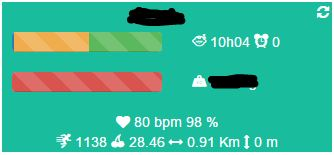
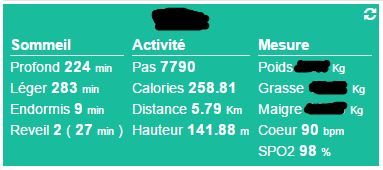
Improve widget

diff --git a/core/template/dashboard/withings.html b/core/template/dashboard/withings.html
@@ -5,117 +5,66 @@
 
     <span class="cmd cmd-widget" data-cmd_id="#refresh_id#" style="display:none;"></span>
 
-    <div class="row sleep">
-        <div class="col-sm-6" style="margin-left: 10px;" >
-            <div class="progress">
-                <div class="progress-bar progress-bar-striped durationtosleep #durationtosleep_history#" data-cmd_id="#durationtosleep_id#"></div>
-                <div class="progress-bar progress-bar-warning progress-bar-striped lightsleepduration #lightsleepduration_history#" data-cmd_id="#lightsleepduration_id#"></div>
-                <div class="progress-bar progress-bar-success progress-bar-striped deepsleepduration #deepsleepduration_history#" data-cmd_id="#deepsleepduration_id#"></div>
-            </div>
-        </div>
-        <div class="col-sm-5">
-            <i class="icon personne-sleeping4"></i> <span class="totalSleep #totalSleep_history#" data-cmd_id="#totalSleep_id#" title="Temps total de sommeil"></span> 
-            <span class="#wakeupcount_history#" data-cmd_id="#wakeupcount_id#" title="Nombre de reveils (#wakeupcount_collect#)"><i class="icon divers-circular114"></i> #wakeupcount#</span>
-        </div>
-    </div>
+    <div class="row" style="margin-left : 2px;margin-right : 2px;">
+       <div class="col-sm-4" style="padding-right : 5px;padding-left : 5px;">
+           <legend style="color:white;margin-bottom : 0px;font-size : 15px;font-weight: bold;">Sommeil</legend>
+           <span class="#deepsleepduration_history#" data-cmd_id="#deepsleepduration_id#">Profond <strong class="tooltips" title="#deepsleepduration_collect#" style="font-size:1.1em;">#deepsleepduration#</strong> <span style="font-size:0.8em;">min</span><br/></span>
+           <span class="#lightsleepduration_history#" data-cmd_id="#lightsleepduration_id#">Léger <strong class="tooltips" title="#lightsleepduration_collect#" style="font-size:1.1em;">#lightsleepduration#</strong> <span style="font-size:0.8em;">min</span><br/></span>
+           <span class="#durationtosleep_history#" data-cmd_id="#durationtosleep_id#">Endormis <strong class="tooltips" title="#durationtosleep_collect#" style="font-size:1.1em;">#durationtosleep#</strong> <span style="font-size:0.8em;">min</span><br/></span>
+           <span class="#wakeupcount_history#" data-cmd_id="#wakeupcount_id#">Reveil <strong class="tooltips" title="#wakeupcount_collect#" style="font-size:1.1em;">#wakeupcount#</strong> ( <strong class="tooltips" title="#wakeupduration_collect#" style="font-size:1.1em;">#wakeupduration#</strong> <span style="font-size:0.8em;">min</span> )</span>
+       </div>
+       <div class="col-sm-4" style="padding-right : 3px;padding-left : 3px;">
+           <legend style="color:white;margin-bottom : 0px;font-size : 15px;font-weight: bold;">Activité</legend>
+           <span class="step #step_history#" data-cmd_id="#step_id#">Pas <strong class="tooltips" title="#step_collect#" style="font-size:1.1em;">#step#</strong></span><br/>
+           <span class="caloriesOut #calories_history#" data-cmd_id="#calories_id#">Calories <strong class="tooltips" title="#calories_collect#" style="font-size:1.1em;">#calories#</strong><br/></span>
+           <span class="distance #distance_history#" data-cmd_id="#distance_id#">Distance <strong class="tooltips" title="#distance_collect#" style="font-size:1.1em;">#distance#</strong> <span style="font-size:0.8em;">Km</span><br/></span>
+           <span class="elevation #elevation_history#" data-cmd_id="#elevation_id#">Hauteur <strong class="tooltips" title="#elevation_collect#" style="font-size:1.1em;">#elevation#</strong> <span style="font-size:0.8em;">m</span></span>
+       </div>
+       <div class="col-sm-4" style="padding-right : 5px;padding-left : 5px;">
+           <legend style="color:white;margin-bottom : 0px;font-size : 15px;font-weight: bold;">Mesure</legend>
+           <span class="measuregrps1 #measuregrps1_history#" data-cmd_id="#measuregrps1_id#">Poids <strong class="tooltips" title="#measuregrps1_collect#" style="font-size:1.1em;">#measuregrps1#</strong> <span style="font-size:0.8em;">Kg</span><br/></span>
+           <span class="measuregrps8 #measuregrps8_history#" data-cmd_id="#measuregrps8_id#">Grasse <strong class="tooltips" title="#measuregrps8_collect#" style="font-size:1.1em;">#measuregrps8#</strong> <span style="font-size:0.8em;">Kg</span><br/></span>
+           <span class="measuregrps5 #measuregrps1_history#" data-cmd_id="#measuregrps5_id#">Maigre <strong class="tooltips" title="#measuregrps5_collect#" style="font-size:1.1em;">#measuregrps5#</strong> <span style="font-size:0.8em;">Kg</span><br/></span>
+           <span class="measuregrps11 #measuregrps11_history#" data-cmd_id="#measuregrps11_id#">Coeur <strong class="tooltips" title="#measuregrps11_collect#" style="font-size:1.1em;">#measuregrps11#</strong> <span style="font-size:0.8em;">bpm</span><br/></span>
+           <span class="measuregrps54 #measuregrps54_history#" data-cmd_id="#measuregrps54_id#">SPO2 <strong class="tooltips" title="#measuregrps54_collect#" style="font-size:1.1em;">#measuregrps54#</strong> <span style="font-size:0.8em;">%</span></span>
+       </div>
+   </div>
 
-    <div class="row body">
-        <div class="col-sm-6" style="margin-left: 10px;" >
-            <div class="progress">
-                <div class="progress-bar progress-bar-danger progress-bar-striped measuregrps8 #measuregrps8_history#" data-cmd_id="#measuregrps8_id#" title="Masse grasse : #measuregrps8# kg (#measuregrps8_collect#)"></div>
-                <div class="progress-bar progress-bar-success progress-bar-striped measuregrps5 #measuregrps5_history#" data-cmd_id="#measuregrps5_id#" title='Masse maigre : #measuregrps5# kg (#measuregrps5_collect#)'></div>
-                <div class="progress-bar progress-bar-success progress-bar-striped weightOther #weightOther_history#" data-cmd_id="#weightOther_id#" title='Autre : 0 kg'></div>
-            </div>
-        </div>
-        <div class="col-sm-5">
-            <span class="#measuregrps1_history#" data-cmd_id="#measuregrps1_id#" title="Poids (#measuregrps1_collect#)"><i class="icon divers-weight11"></i> #measuregrps1# kg</span>
-        </div>
-    </div>
-
-    <center>
-        <span class="heart #measuregrps11_history#" data-cmd_id="#measuregrps11_id#"><span title="Rythme cardiaque (#measuregrps11_collect#)"><i class="fa fa-heart"></i> #measuregrps11# bpm</span>
-        <span class="measuregrps54 #measuregrps54_history#" data-cmd_id="#measuregrps11_id#" title="SPO2 (#measuregrps54_collect#)">  #measuregrps54# %</span></span><br/>
-        <span class="step #step_history#" data-cmd_id="#step_id#" title="Nombre de pas (#step_collect#)"><i class="icon loisir-runner5"></i> #step#</span>
-        <span class="calories #calories_history#" data-cmd_id="#calories_id#" title="Calories brulées (#calories_collect#)"><i class="icon nourriture-cherries"></i> #calories#</span>
-        <span class="distance #distance_history#" data-cmd_id="#distance_id#" title="Distance parcourue (#distance_collect#)"><i class="fa fa-arrows-h"></i> #distance# Km</span>
-        <span class="elevation #elevation_history#" data-cmd_id="#elevation_id#" title="Elévation (#elevation_collect#)"><i class="fa fa-arrows-v"></i> #elevation# m</span>
-    </center>
-
-    <script>
-        $('.eqLogic[data-eqLogic_id=#id#] .refresh').on('click', function () {
-            jeedom.cmd.execute({id: '#refresh_id#'});
-        });
-
-
-        if (isNaN(parseInt('#durationtosleep#'))) {
-            $('.eqLogic[data-eqLogic_id=#id#] .sleep').remove();
-        } else {
-            var totalSleep = parseInt('#durationtosleep#') + parseInt('#deepsleepduration#') + parseInt('#lightsleepduration#');
-            var minute = (totalSleep % 60);
-            minute = minute.toString()
-            if (minute.length == 1) {
-                minute = '0' + minute;
-            }
-            $('.eqLogic[data-eqLogic_id=#id#] .totalSleep').append(parseInt(totalSleep / 60) + 'h' + minute);
-
-            var minute = (parseInt('#durationtosleep#') % 60);
-            minute = minute.toString()
-            if (minute.length == 1) {
-                minute = '0' + minute;
-            }
-            $('.eqLogic[data-eqLogic_id=#id#] .durationtosleep').attr('title', 'Temps pour s\'endormir : ' + parseInt(parseInt('#durationtosleep#') / 60) + 'h' + minute + ' (#durationtosleep_collect#)');
-            $('.eqLogic[data-eqLogic_id=#id#] .durationtosleep').css('width', (parseInt('#durationtosleep#') / totalSleep * 100) + '%');
-
-            var minute = (parseInt('#deepsleepduration#') % 60);
-            minute = minute.toString()
-            if (minute.length == 1) {
-                minute = '0' + minute;
-            }
-            $('.eqLogic[data-eqLogic_id=#id#] .deepsleepduration').attr('title', 'Durée sommeil profond : ' + parseInt(parseInt('#deepsleepduration#') / 60) + 'h' + minute + ' (#deepsleepduration_collect#)');
-            $('.eqLogic[data-eqLogic_id=#id#] .deepsleepduration').css('width', (parseInt('#deepsleepduration#') / totalSleep * 100) + '%');
-
-            var minute = (parseInt('#lightsleepduration#') % 60);
-            minute = minute.toString()
-            if (minute.length == 1) {
-                minute = '0' + minute;
-            }
-            $('.eqLogic[data-eqLogic_id=#id#] .lightsleepduration').attr('title', 'Durée sommeil léger : ' + parseInt(parseInt('#lightsleepduration#') / 60) + 'h' + minute + ' (#lightsleepduration_collect#)');
-
-            $('.eqLogic[data-eqLogic_id=#id#] .lightsleepduration').css('width', (parseInt('#lightsleepduration#') / totalSleep * 100) + '%');
-        }
-        if (isNaN(parseInt('#measuregrps1#'))) {
-            $('.eqLogic[data-eqLogic_id=#id#] .body').remove();
-        } else {
-            $('.eqLogic[data-eqLogic_id=#id#] .measuregrps8').css('width', (parseInt('#measuregrps8#') / parseInt('#measuregrps1#') * 100) + '%');
-            $('.eqLogic[data-eqLogic_id=#id#] .measuregrps5').css('width', (parseInt('#measuregrps5#') / parseInt('#measuregrps1#') * 100) + '%');
-            var weightOther = parseInt('#measuregrps1#') - (parseInt('#measuregrps5#') + parseInt('#measuregrps8#'));
-            if (weightOther > 0) {
-                $('.eqLogic[data-eqLogic_id=#id#] .weightOther').attr('title', 'Autre : ' + weightOther + ' kg');
-                $('.eqLogic[data-eqLogic_id=#id#] .weightOther').css('width', (weightOther / parseInt('#measuregrps1#') * 100) + '%');
-            }
-        }
-        if (isNaN(parseInt('#measuregrps14#'))) {
-            $('.eqLogic[data-eqLogic_id=#id#] .measuregrps14').remove();
-        }
-        if (isNaN(parseInt('#measuregrps11#'))) {
-            $('.eqLogic[data-eqLogic_id=#id#] .heart').remove();
-        }
-        if (isNaN(parseInt('#step#'))) {
-            $('.eqLogic[data-eqLogic_id=#id#] .step').remove();
-        }
-        if (isNaN(parseInt('#calories#'))) {
-            $('.eqLogic[data-eqLogic_id=#id#] .calories').remove();
-        }
-        if (isNaN(parseInt('#distance#'))) {
-            $('.eqLogic[data-eqLogic_id=#id#] .distance').remove();
-        }
-        if (isNaN(parseInt('#elevation#'))) {
-            $('.eqLogic[data-eqLogic_id=#id#] .elevation').remove();
-        }
-        if (isNaN(parseInt('#measuregrps54#'))) {
-            $('.eqLogic[data-eqLogic_id=#id#] .measuregrps54').remove();
-        }
-    </script>
+   <script>
+    $('.eqLogic[data-eqLogic_id=#id#] .refresh').on('click', function () {
+        jeedom.cmd.execute({id: '#refresh_id#'});
+    });
+    if (isNaN(parseInt('#measuregrps1#'))) {
+        $('.eqLogic[data-eqLogic_id=#id#] .measuregrps1').remove();
+    }
+     if (isNaN(parseInt('#measuregrps8#'))) {
+        $('.eqLogic[data-eqLogic_id=#id#] .measuregrps8').remove();
+    }
+     if (isNaN(parseInt('#measuregrps5#'))) {
+        $('.eqLogic[data-eqLogic_id=#id#] .measuregrps5').remove();
+    }
+    if (isNaN(parseInt('#measuregrps14#'))) {
+        $('.eqLogic[data-eqLogic_id=#id#] .measuregrps14').remove();
+    }
+    if (isNaN(parseInt('#measuregrps11#'))) {
+        $('.eqLogic[data-eqLogic_id=#id#] .heart').remove();
+    }
+    if (isNaN(parseInt('#step#'))) {
+        $('.eqLogic[data-eqLogic_id=#id#] .step').remove();
+    }
+    if (isNaN(parseInt('#calories#'))) {
+        $('.eqLogic[data-eqLogic_id=#id#] .calories').remove();
+    }
+    if (isNaN(parseInt('#distance#'))) {
+        $('.eqLogic[data-eqLogic_id=#id#] .distance').remove();
+    }
+    if (isNaN(parseInt('#elevation#'))) {
+        $('.eqLogic[data-eqLogic_id=#id#] .elevation').remove();
+    }
+    if (isNaN(parseInt('#measuregrps54#'))) {
+        $('.eqLogic[data-eqLogic_id=#id#] .measuregrps54').remove();
+    }
+</script>
 
 </div>
 

diff --git a/core/class/withings.class.php b/core/class/withings.class.php
@@ -114,7 +114,7 @@ class withings extends eqLogic {
 		$_version = jeedom::versionAlias($_version);
 		$mc = cache::byKey('withingsWidget' . $_version . $this->getId());
 		if ($mc->getValue() != '') {
-			return $mc->getValue();
+			//return $mc->getValue();
 		}
 		$replace = array(
 			'#name#' => $this->getName(),
